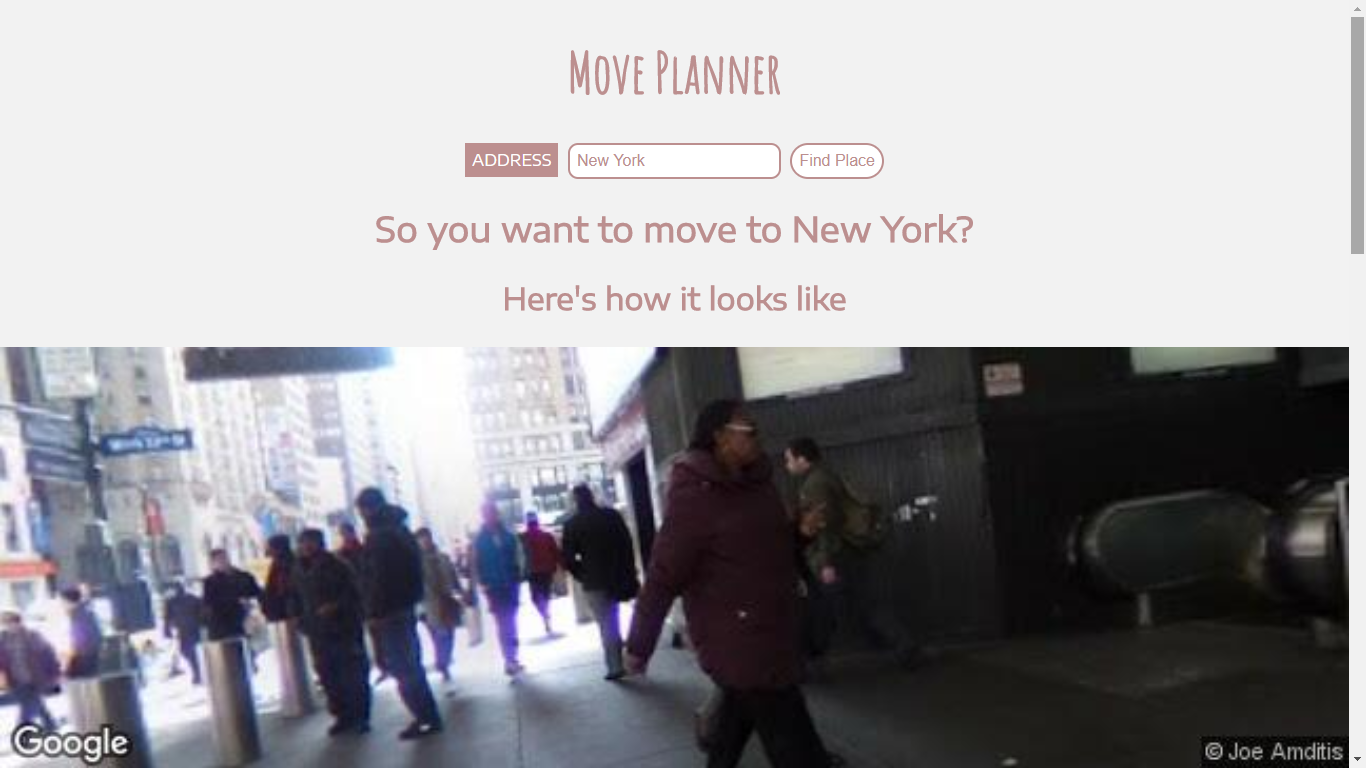
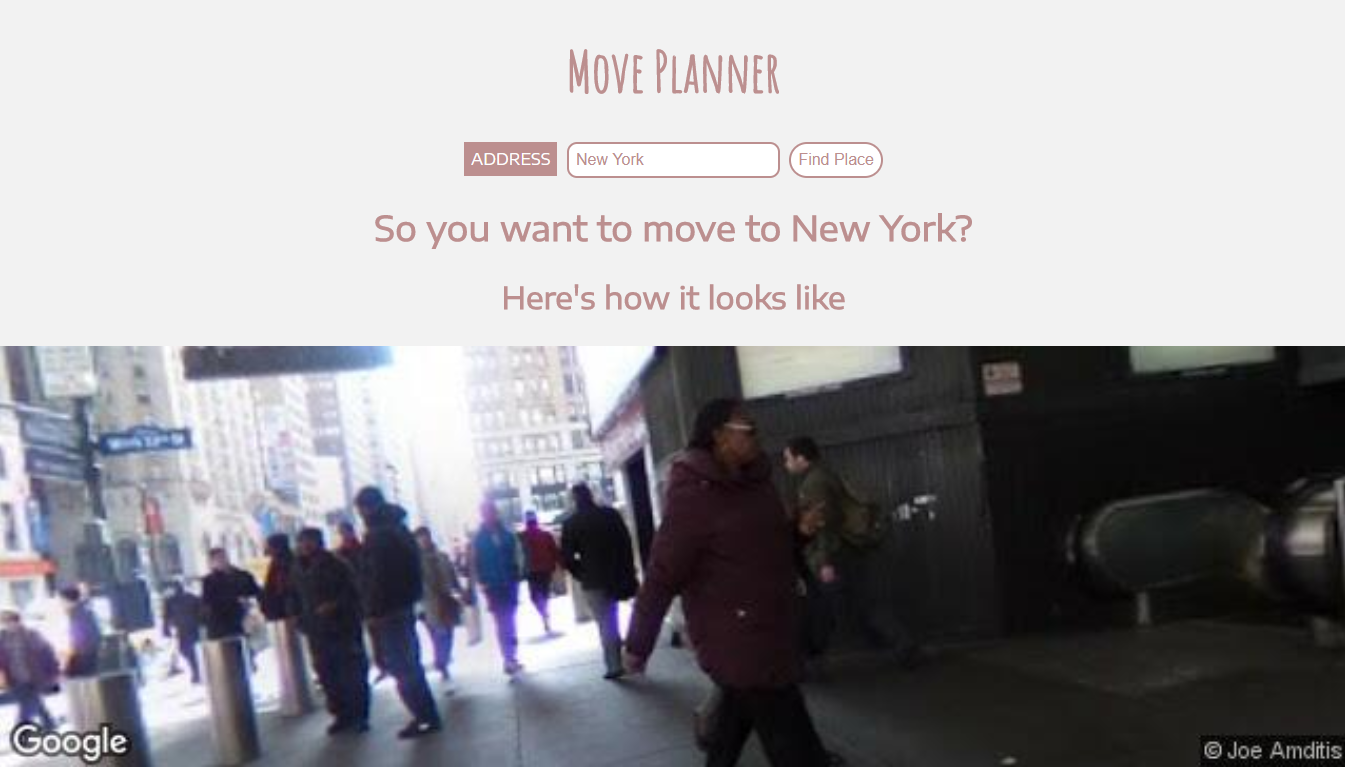
Update README.md file

diff --git a/README.md b/README.md
@@ -6,6 +6,8 @@
 ## Detail
 Move Planner provides an engaging and immersive way to search a destination for your next trip or your permanent next residence. Just search for a destination and you'll get the photo of that location, Wikipedia articles to know your next destination well and also New York Times article about your next stop, all at just one one click.
 
+Note that I'm using free plan of Google Map Image API that's the reason behind quality of image not being HD.
+
 ## Demo
 This is how it looks like:
 ![move planner](./images/move-planner-1.png)
